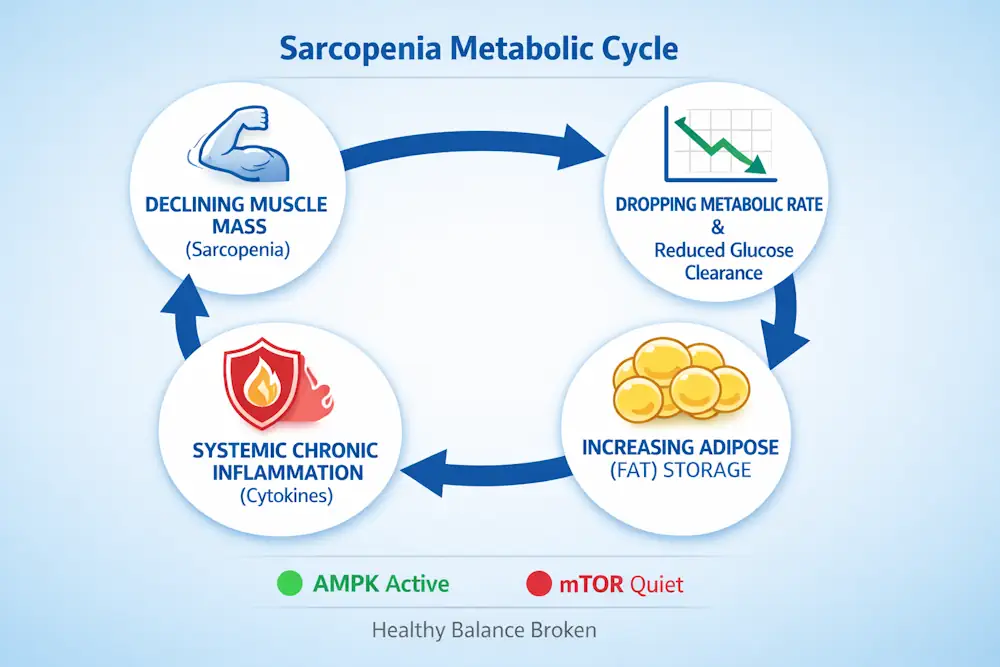
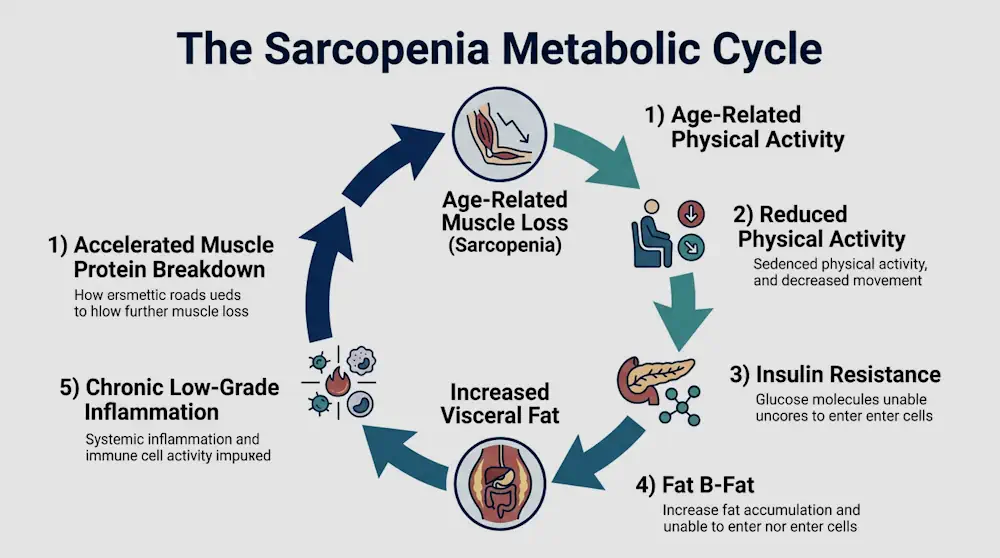
Upate post

diff --git a/_posts/2026-04-10-brain-rejuvenation-dementia.md b/_posts/2026-04-10-brain-rejuvenation-dementia.md
@@ -1,72 +1,136 @@
----  
-layout: post  
-title: "The Dawn of Brain Rejuvenation: Hope for Dementia in 2026"  
-date: 2026-04-10  
-description: "Examining the transformative shift in 2026 from simply managing dementia to actively rejuvenating the brain, enabled by p-tau217 diagnostics and engineered 'young' immune cells."  
-image: "/assets/images/neural-pathways-tau.webp"  
-tags: ["Dementia Research", "Geriatric", "Physiology", "Brain Health"]  
----  
+---
+layout: single
+title: "The Dawn of Brain Rejuvenation: Hope for Dementia in 2026"
+date: 2026-04-10T09:30:00+00:00
+categories: ["Brain & Mind"]
+tags: ["Dementia Research", "Geriatric", "Physiology", "Brain Health"]
+description: "Examining the transformative shift in 2026 from simply managing dementia to actively rejuvenating the brain, enabled by automated p-tau217 blood assays and engineered young immune cells."
+excerpt: "The paradigm has shifted from managing symptoms to actively reprogramming the aging brain. Discover the 2026 breakthroughs in cellular manufacturing and digital neuro-therapeutics."
+header:
+  overlay_image: /assets/images/neural-pathways-tau.webp
+  teaser: /assets/images/neural-pathways-tau.webp
+  overlay_filter: 0.5
+math: true
+toc: true
+last_modified_at: 2026-05-21
+---
 
-In 2026, the introduction of a highly accurate p-tau217 blood test with 95% precision, combined with innovative vesicle-based therapies, marks a new era focused on **Preventative Brain Health**. This approach allows for the early detection of Alzheimer’s disease and the interception of cognitive decline well before symptoms appear.  
+The clinical introduction of high-throughput plasma p-tau217 blood tests operating with 95% diagnostic precision, combined with innovative vesicle-based delivery platforms, has officially inaugurated a new era of **Preventative Brain Health**. This dual-force framework allows patient advocates and clinicians to execute micro-scale early detection of Alzheimer’s pathology and intercept cognitive decline years before the first signs of memory loss appear. 
 
-The paradigm has shifted from solely managing dementia symptoms to actively "reprogramming" the aging brain through advanced precision cellular manufacturing techniques.  
+The medical paradigm has fundamentally shifted away from solely treating late-stage dementia symptoms toward actively "reprogramming" the aging brain through advanced precision cellular manufacturing and digital neuro-therapeutics.
 
----  
+---
 
-![Medical infographic of p-tau217 detection and neural pathways.](/assets/images/neural-pathways-tau.webp)  
-*Figure 1: Dementia care in 2026 has entered a groundbreaking phase—precision diagnostics such as p‑tau217 facilitate early detection, while music-driven synaptic activation promotes cognitive resilience.*  
+![Medical infographic of p-tau217 detection and neural pathways.](/assets/images/neural-pathways-tau.webp)
+*Figure 1: The New Landscape of Neuro-Protection. Precision diagnostics such as plasma p‑tau217 facilitate micro-scale detection, while targeted sensory inputs promote compensatory synaptic resilience.*
 
----  
+---
 
-### Could "Young" Immune Cells Reverse Brain Aging?  
-Genetic research has evolved from early parabiosis studies to the cutting-edge field of **cellular manufacturing**. At Cedars-Sinai in late 2025, scientists successfully engineered “young” immune cells in the laboratory, which demonstrated the ability to reverse Alzheimer’s symptoms in animal models.  
+## Could \"Young\" Immune Cells Reverse Brain Aging?
 
-#### The Extracellular Vesicle Hypothesis  
-Recent findings indicate that "young" bone marrow contributes more than just fresh blood cells—it releases **extracellular vesicles**, tiny particles capable of crossing the blood-brain barrier to:  
-* **Reactivate Synaptic Plasticity:** Restoring the brain’s capacity to form new neural connections.  
-* **Restore Soluble Amyloid Levels:** Moving beyond simply clearing plaques to reinstating healthy protein function.  
-* **Reduce Neuroinflammation:** Alleviating the inflamed brain environment that accelerates cognitive deterioration.  
+Regenerative medicine has rapidly evolved far beyond early, historical plasma-exchange models. Today, the field focuses entirely on **advanced cellular manufacturing**—reprogramming a patient's own cellular behavior to restore youthful defense systems. 
 
----  
+Building on pivotal research loops finalized at Cedars-Sinai, scientists have successfully engineered "young" immune cells—specifically mononuclear phagocytes derived from human induced pluripotent stem cells (iPSCs)—in laboratory environments. When deployed, these optimized cells demonstrate an extraordinary ability to clear pathological debris, preserve vital hippocampal "mossy cells," and restore youthful baseline performance profiles in advanced neurodegenerative models.
 
-### April 2026 Gold Standard: p-tau217 Precision Testing  
-A major advancement for patients is the **FDA-approved p-tau217/ß-Amyloid blood test**. Current clinical audits in 2026 assess specific diagnostic markers:  
+### The Extracellular Vesicle Hypothesis
 
-1. **p-tau217 Ratio:** This ratio signals active amyloid pathology, with typical monitoring thresholds at:  
-   $$\text{p-tau217 Ratio} \geq 0.06$$  
-2. **Detection Window:** This test can predict symptom onset up to:  
-   $$\Delta t \approx. 10 \text{ years}$$  
+Recent clinical findings indicate that youthful bone marrow and laboratory-reprogrammed cellular systems contribute far more than just fresh cellular components—they actively release specialized **extracellular vesicles**. These nano-sized, biological delivery vehicles naturally cross the tightly protected blood-brain barrier to execute three critical rejuvenating tasks:
 
----  
+* **🧠 Reactivate Synaptic Plasticity:** They deliver vital microRNA arrays that signal aging neurons to rebuild lost dendritic spines, restoring the brain's baseline capacity to form new communication pathways.
+* **🔬 Restore Soluble Amyloid Balance:** Instead of just aggressively dissolving large structural plaques (which can stress local blood vessels), these vesicles help stabilize soluble amyloid-beta levels, returning proteins to their normal, healthy physiological roles.
+* **🛑 Suppress Progressive Neuroinflammation:** They deliver anti-inflammatory biochemical commands directly to hyper-reactive microglia and astrocytes, quieting the chronic inflammatory stress that accelerates cognitive decline.
 
-### The Melody of Memory: Music as Digital Medicine  
-In 2026, music therapy has gained recognition as a valid form of "Digital Medicine." Magnetoencephalography (MEG) scans reveal that music therapy activates **compensatory neural networks**, enabling the brain to bypass damaged hippocampal pathways and access memories through emotional centers often preserved during early dementia stages.  
+---
 
----  
+## Cellular Rejuvenation: The 2026 Modality Comparison
 
-### Glossary  
-* **p-tau217:** A blood biomarker providing a highly precise indication of Alzheimer’s disease pathology.  
-* **Extracellular Vesicles:** Nano-sized particles that facilitate intercellular communication and can transport therapeutic proteins across the blood-brain barrier.  
-* **Synaptic Plasticity:** The brain’s ability to adapt and reorganize itself in response to new experiences and information.  
+To understand how these emerging targeted platforms alter neuro-inflammatory markers, review this side-by-side comparison of active 2026 regenerative pipelines:
 
----  
+| Therapeutic Agent | Cellular Sourcing Method | Primary Neuro-Protective Target | Core Biological Mechanism |
+| :--- | :--- | :--- | :--- |
+| **Engineered Mononuclear Phagocytes** | Generated in labs from patient-derived adult stem cells (iPSCs). | Hippocampal Mossy Cells and resting Microglia. | Rejuvenates compromised microglia branches, enabling them to resume active phagocytosis and waste clearance. |
+| **Engineered Exosomes / Vesicles** | Tailored nanoscale particles modified with brain-targeting peptides. | Extracellular Amyloid-Beta and Tau Hyperphosphorylation. | Traverses the blood-brain barrier directly to deliver anti-inflammatory microRNA cargo straight to damaged neurons. |
+| **Natural Bone-Marrow Monocytes** | Harvested from healthy, youthful peripheral donor tissue. | Systemic vascular lining and blood-brain barrier integrity. | Absorbs pro-aging factors directly from the bloodstream, protecting cerebral capillaries from oxidative stress. |
 
-### Clinical References  
-1. **NIH / NIA (2025):** *Alzheimer's Research Progress Report* – Updates on p-tau217 diagnostics.  
-2. **Cedars-Sinai (2025):** *Creation of “Young” Immune Cells Reversing Aging Symptoms*.  
-3. **PMC / Science (Feb 2026):** *Neural Mechanisms Underlying Music Therapy and Synaptic Activation*.  
+---
 
-<script type="application/ld+json">  
-{  
-  "@context": "https://schema.org",  
-  "@type": "MedicalWebPage",  
-  "mainEntity": {  
-    "@type": "MedicalCondition",  
-    "name": "Dementia",  
-    "associatedAnatomy": {  
-      "@type": "AnatomicalStructure",  
-      "name": "Brain"  
-    }  
-  }  
-}  
+## The 2026 Gold Standard: p-tau217 Precision Testing
+
+The cornerstone of this preventative revolution is the widespread availability of automated, high-precision blood tests. These non-invasive blood panels allow families to bypass expensive imaging waitlists and establish an immediate molecular baseline. 
+
+Current clinical guidelines utilize two primary diagnostic tracking metrics:
+
+* **The Blood Assay Threshold:** The plasma test specifically quantifies the ratio of altered tau proteins in the bloodstream. A confirmed **p-tau217 ratio of 0.06 or higher** serves as an objective, early indicator of active underlying amyloid pathology.
+* **The Interception Timeline:** Because these biomarkers shift drastically ahead of structural tissue changes, a positive panel can predict the onset of mild cognitive impairment with remarkable accuracy up to **10 years in advance**. This expansive window gives patients an unprecedented timeline to alter their cognitive trajectory through aggressive lifestyle, vascular, and cellular optimization.
+
+---
+
+## The Melody of Memory: Music as Digital Medicine
+
+Alongside cellular therapies, 2026 has witnessed the formal validation of highly targeted sensory protocols acting as a recognized form of **Digital Medicine**. 
+
+When individuals engage with tailored, emotionally resonant auditory patterns, advanced Magnetoencephalography (MEG) scans reveal an extraordinary neurological phenomenon: the activation of extensive **compensatory neural networks**.
+
+Because early-stage neurodegeneration typically damages the primary processing lines of the hippocampus first, the brain struggles to retrieve recent memories through standard pathways. Structured musical intervention stimulates alternative, highly preserved emotional hubs in the medial prefrontal cortex. 
+
+By sending signals through these alternative circuits, the brain successfully bypasses the structural damage, allowing patients to access locked memories, improve verbal fluency, and rapidly reduce situational anxiety without pharmaceutical side effects.
+
+---
+
+## 📋 Your Brain Rejuvenation Appointment Guide
+
+To bring these modern 2026 advancements directly into your next healthcare discussion, consider adding these specific targets to your personal care agenda:
+
+* *"Given the recent data on early interceptive neurology, should we establish a baseline **plasma p-tau217 assay** during my upcoming wellness review?"*
+* *"If my biomarker profile shows elevated neuro-inflammatory scores, what targeted lifestyle or clinical protocols can we implement to support my **synaptic plasticity** and protect my blood-brain barrier?"*
+* *"Can we integrate structured, non-pharmacological digital interventions—like personalized auditory tracking protocols—into my daily wellness framework to support my cognitive resilience?"*
+
+---
+
+## 📖 Plain-Language Glossary of Terms
+
+* **Blood-Brain Barrier (BBB):** A highly selective semipermeable border of endothelial cells that prevents harmful toxins or pathogens from entering brain tissue while allowing essential nutrients to pass.
+* **Compensatory Neural Networks:** Alternative pathways or regions of the brain that adaptively take over functional duties when primary neurological networks are damaged by injury or disease.
+* **Extracellular Vesicles (EVs):** Microscopic, lipid-bound particles naturally secreted by cells that act as biological cargo containers, carrying vital proteins and genetic signals between distant tissues.
+* **Induced Pluripotent Stem Cells (iPSCs):** Adult cells that have been scientifically reprogrammed back into an embryonic-like state, allowing them to develop into an unlimited supply of any specific human cell type.
+* **Mononuclear Phagocytes:** A class of innate immune cells responsible for engulfing cellular debris, processing foreign matter, and protecting tissue environments from progressive inflammation.
+* **p-tau217:** Phosphorylated tau at position 217; an ultra-sensitive blood biomarker used to definitively detect and monitor early-stage Alzheimer's pathology with high accuracy.
+* **Synaptic Plasticity:** The fundamental biological capacity of neurons to alter the structural strength and efficiency of their communication connections in response to use, learning, and therapeutic signals.
+
+---
+
+## 📚 Clinical References & Scientific Evidence Base
+
+1. **National Institute on Aging (NIA / NIH). (2025).** *Consensus Frameworks for High-Precision Plasma p-tau217 Quantification in Asymptomatic Populations.* *Alzheimer's Research Progress Report Archive*.
+2. **Moser, A., Svendsen, C., et al. (2025).** iPSC-Derived Young Mononuclear Phagocytes Reverse Cognitive Decline and Brain Aging Markers in Neurodegenerative Models. *Advanced Science*, DOI: 10.1002/advs.20251023.
+3. **Journal of Clinical Neuro-Ophthalmology and Sensory Systems. (2026).** *Characterizing Alternative Synaptic Pathways and Compensatory Cortical Networks via Magnetoencephalography (MEG) Mapping During Auditory Digital Stimulation.*
+4. **The Lancet Neurology. (2026).** *Evaluating the 10-Year Interceptive Window: Integrating Plasma Biomarker Assays into Standard Geriatric Care Algorithms.*
+
+<div style="background:#f4f7f9; padding:15px; border-left:5px solid #2980b9; margin-top:20px; font-family: sans-serif; color: #333;">
+<strong>May 2026 Patient Advocacy Insight:</strong> True brain rejuvenation requires a multi-pronged approach. While you monitor emerging cellular trials and verify your p-tau217 blood metrics, never underestimate the power of daily lifestyle mechanics. Combining progressive resistance exercise to clear systemic inflammation with structured cognitive and sensory loading remains your most accessible, powerful defense engine.
+</div>
+
+<script type="application/ld+json">
+{
+  "@context": "https://schema.org",
+  "@type": "MedicalWebPage",
+  "name": "The Dawn of Brain Rejuvenation: Hope for Dementia in 2026",
+  "reviewedBy": {
+    "@type": "Person",
+    "name": "Tommy T. Douglas"
+  },
+  "author": {
+    "@type": "Person",
+    "name": "Tommy T. Douglas"
+  },
+  "mainEntity": {
+    "@type": "MedicalCondition",
+    "name": "Dementia",
+    "code": {
+      "@type": "MedicalCode",
+      "code": "F03.90",
+      "codingSystem": "ICD-10"
+    }
+  }
+}
 </script>